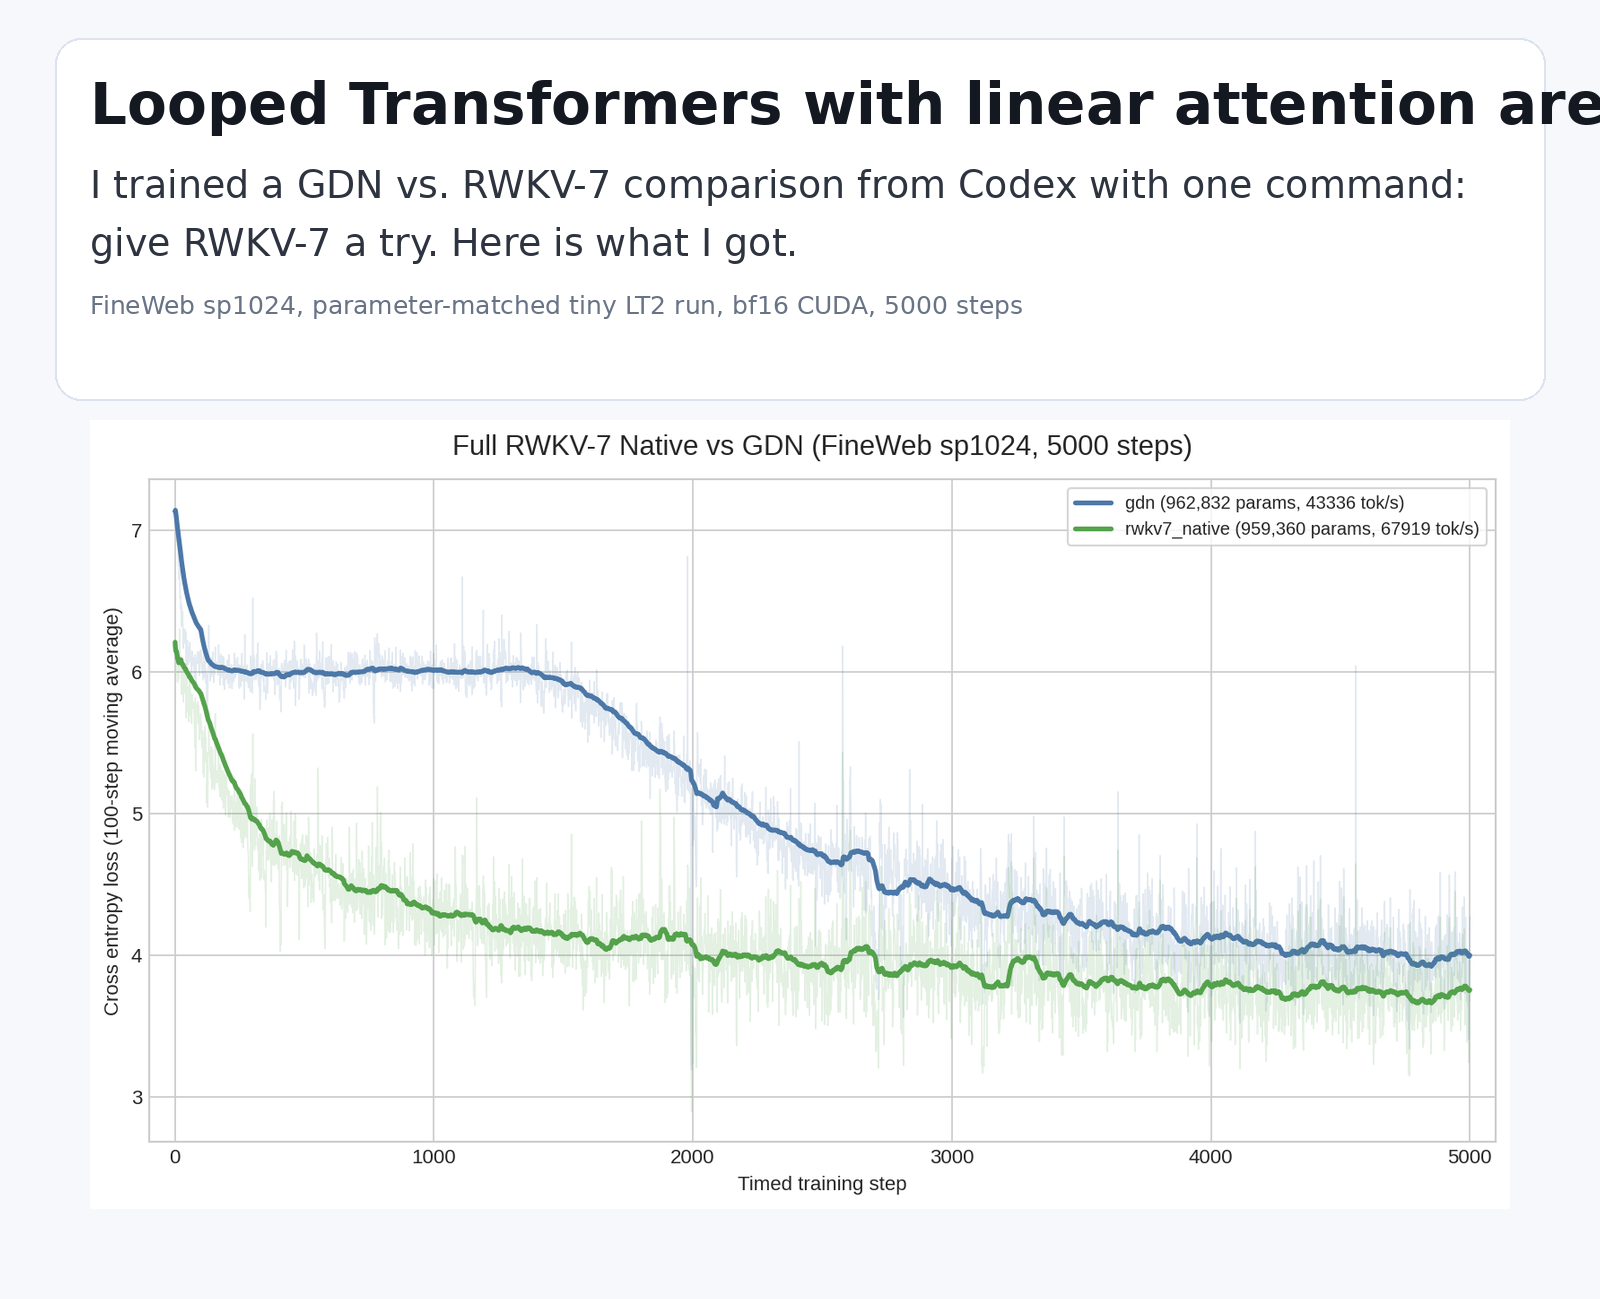
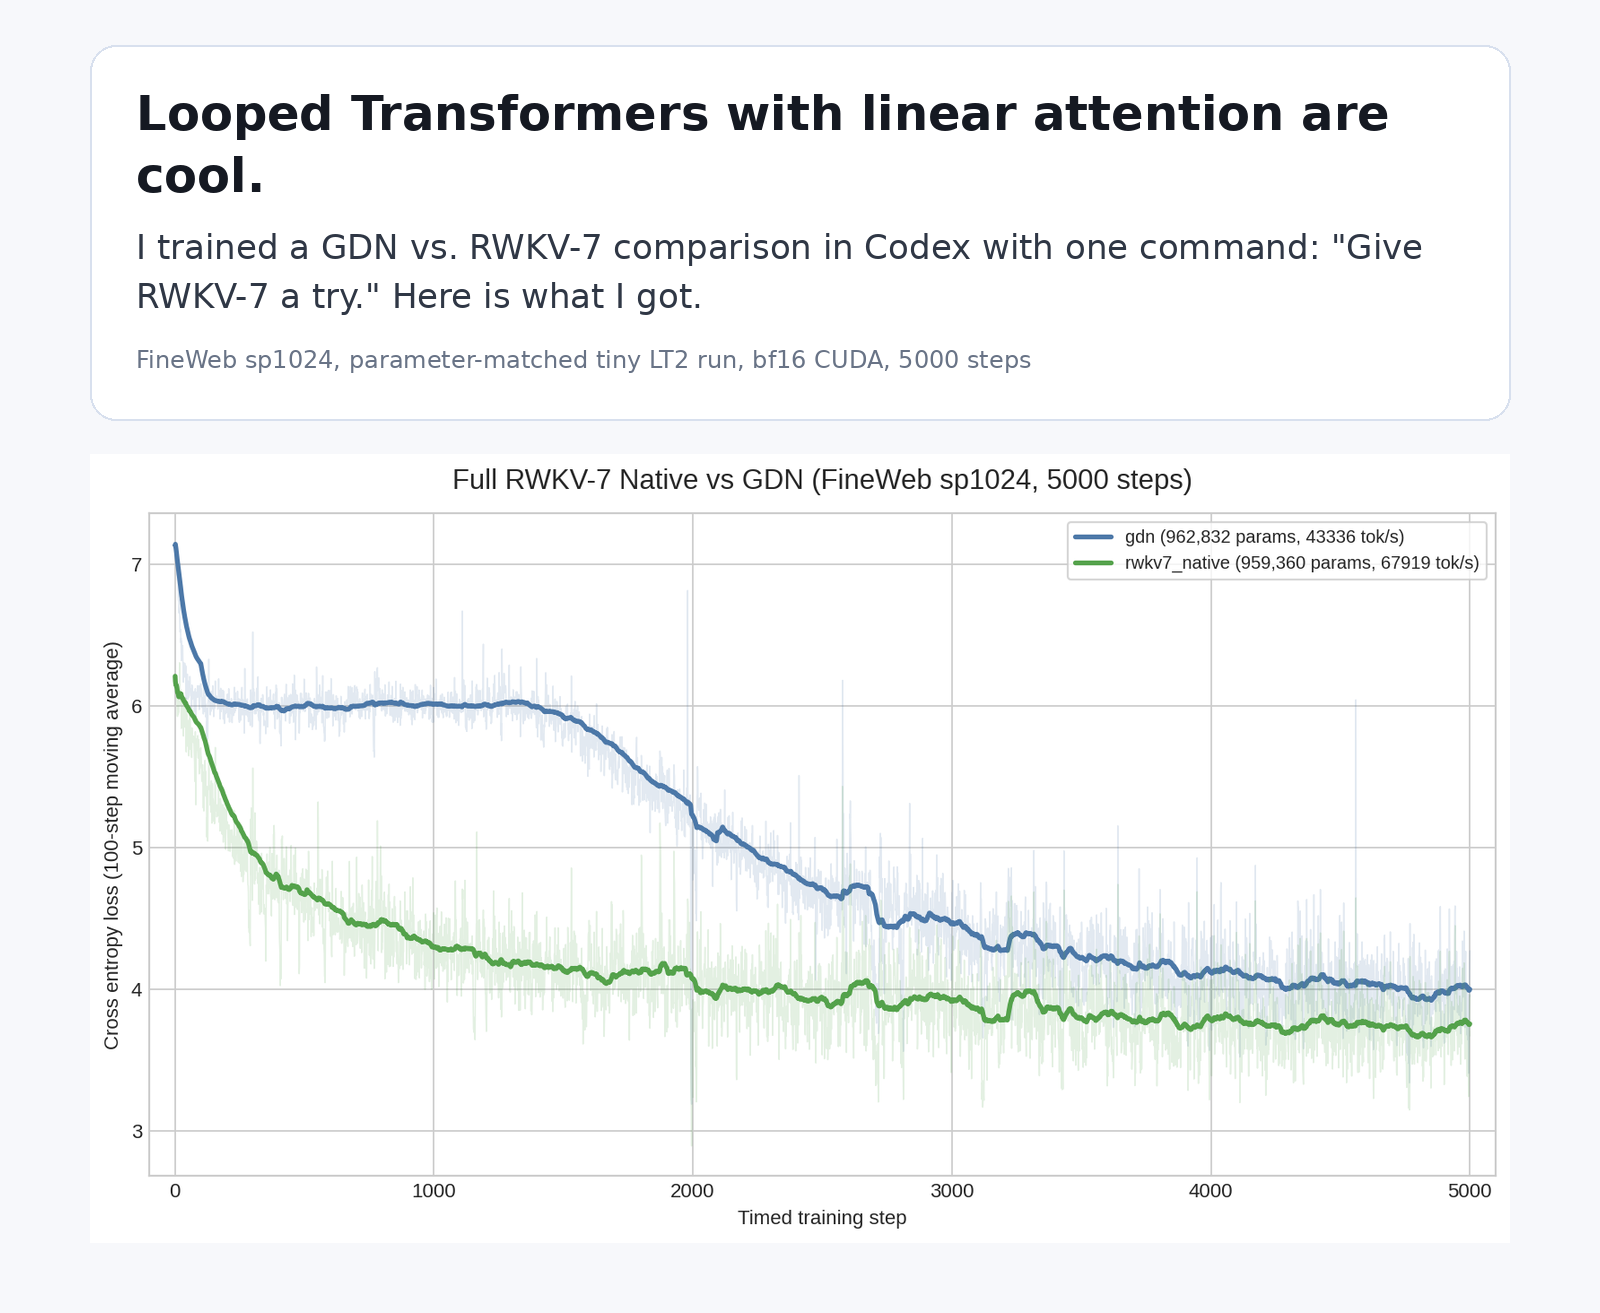
Fix RWKV share card text wrapping

diff --git a/apps/LT2/scripts/make_rwkv_share_card.py b/apps/LT2/scripts/make_rwkv_share_card.py
@@ -1,0 +1,109 @@
+"""Build the README share-card image for the RWKV-7 vs GDN comparison."""
+
+from pathlib import Path
+
+from PIL import Image, ImageDraw, ImageFont
+
+
+REPO_ROOT = Path(__file__).resolve().parents[3]
+CURVE_PATH = REPO_ROOT / "apps/LT2/scripts/rwkv7_native_gdn_fineweb_sp1024_param_matched_loss_curve_5000.png"
+OUT_PATH = REPO_ROOT / "apps/LT2/scripts/rwkv7_native_gdn_fineweb_sp1024_share_card.png"
+
+
+def wrap_text(draw: ImageDraw.ImageDraw, text: str, font: ImageFont.FreeTypeFont, max_width: int) -> list[str]:
+    lines: list[str] = []
+    for paragraph in text.split("\n"):
+        words = paragraph.split()
+        if not words:
+            lines.append("")
+            continue
+        line = ""
+        for word in words:
+            candidate = word if not line else f"{line} {word}"
+            width = draw.textbbox((0, 0), candidate, font=font)[2]
+            if width <= max_width:
+                line = candidate
+            else:
+                if line:
+                    lines.append(line)
+                line = word
+        if line:
+            lines.append(line)
+    return lines
+
+
+def main() -> None:
+    curve = Image.open(CURVE_PATH).convert("RGB")
+
+    width = 1600
+    margin = 90
+    panel_pad_x = 46
+    panel_pad_y = 40
+    panel_width = width - 2 * margin
+    text_width = panel_width - 2 * panel_pad_x
+
+    font_bold = ImageFont.truetype("/usr/share/fonts/truetype/dejavu/DejaVuSans-Bold.ttf", 48)
+    font_body = ImageFont.truetype("/usr/share/fonts/truetype/dejavu/DejaVuSans.ttf", 34)
+    font_small = ImageFont.truetype("/usr/share/fonts/truetype/dejavu/DejaVuSans.ttf", 24)
+
+    scratch = Image.new("RGB", (width, 400), "#f7f8fb")
+    draw = ImageDraw.Draw(scratch)
+
+    headline = "Looped Transformers with linear attention are cool."
+    body = (
+        "I trained a GDN vs. RWKV-7 comparison in Codex with one command: "
+        "\"Give RWKV-7 a try.\" Here is what I got."
+    )
+    caption = "FineWeb sp1024, parameter-matched tiny LT2 run, bf16 CUDA, 5000 steps"
+
+    headline_lines = wrap_text(draw, headline, font_bold, text_width)
+    body_lines = wrap_text(draw, body, font_body, text_width)
+    caption_lines = wrap_text(draw, caption, font_small, text_width)
+
+    headline_lh = 62
+    body_lh = 49
+    caption_lh = 35
+    panel_height = (
+        2 * panel_pad_y
+        + len(headline_lines) * headline_lh
+        + 18
+        + len(body_lines) * body_lh
+        + 20
+        + len(caption_lines) * caption_lh
+    )
+
+    curve_width = width - 2 * margin
+    curve_height = int(curve.height * curve_width / curve.width)
+    gap = 34
+    height = margin // 2 + panel_height + gap + curve_height + 70
+
+    img = Image.new("RGB", (width, height), "#f7f8fb")
+    draw = ImageDraw.Draw(img)
+
+    panel = [margin, margin // 2, width - margin, margin // 2 + panel_height]
+    draw.rounded_rectangle(panel, radius=26, fill="#ffffff", outline="#d8e0ee", width=2)
+
+    x = margin + panel_pad_x
+    y = margin // 2 + panel_pad_y
+    for line in headline_lines:
+        draw.text((x, y), line, font=font_bold, fill="#151922")
+        y += headline_lh
+
+    y += 18
+    for line in body_lines:
+        draw.text((x, y), line, font=font_body, fill="#2f3745")
+        y += body_lh
+
+    y += 20
+    for line in caption_lines:
+        draw.text((x, y), line, font=font_small, fill="#687386")
+        y += caption_lh
+
+    resized_curve = curve.resize((curve_width, curve_height), Image.Resampling.LANCZOS)
+    img.paste(resized_curve, (margin, panel[3] + gap))
+    img.save(OUT_PATH, quality=95)
+    print(f"Wrote {OUT_PATH} ({img.width}x{img.height})")
+
+
+if __name__ == "__main__":
+    main()
